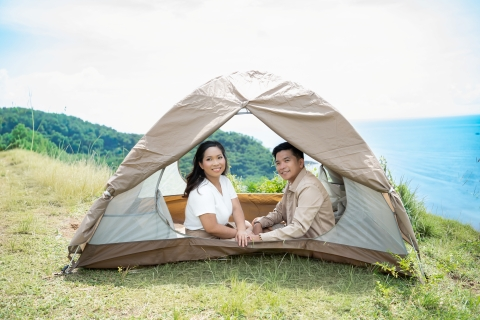
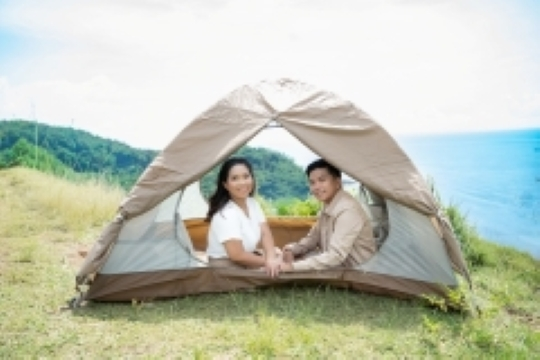
updated the order of events and the image sizes

diff --git a/index.html b/index.html
@@ -94,6 +94,7 @@
         <div class="venue-image">
           <img src="assets/images/church_updated.jpg" alt="Church photo">
         </div>
+        
         <div class="venue-details">
           <h3 class="venue-title">Ceremony</h3>
           <p class="venue-time">December 12, 2025 • 2:00 PM</p>
@@ -127,13 +128,14 @@
 </section>
 
 <!-- ========== ORDER OF EVENTS ========== -->
-<section class="section" id="timeofevents">
-      <h2 class="h1 center slide-down">Order of Events</h2>
-  <div class="story-container">
-    <div class="story-image reveal-left">
-      <img class="img-zoom" src="assets/images/cafe/invi6.jpg" alt="Couple strolling through vines" loading="lazy">
-    </div>
-  </div>
+<section id="timeofevents" class="section">
+  <div class="container">
+    <h2 class="h1 center slide-down">Order of Events</h2>
+    <div class="schedule-grid">
+      <!-- Ceremony -->
+      <div class="venue-card">
+          <img src="assets/images/cafe/invi7.jpg" alt="">
+      </div>
 </section>
 
   <!-- ========== GALLERY ========== -->
@@ -154,9 +156,9 @@
         <img class="img-zoom" src="assets/images/cafe/edited10.jpg" alt="">
         <img class="img-zoom" src="assets/images/cafe/edited11.jpg" alt="">
         <img class="img-zoom" src="assets/images/cafe/edited12.jpg" alt="">
-        <img class="img-zoom" src="assets/images/cafe/edited13.jpg" alt="">
+        <img class="img-zoom" src="assets/images/cafe/edited13a.jpg" alt="">
         <img class="img-zoom" src="assets/images/cafe/edited14.jpg" alt="">
-        <img class="img-zoom" src="assets/images/cafe/edited15.jpg" alt="">
+        <img class="img-zoom" src="assets/images/cafe/edited15a.jpg" alt="">
         <img class="img-zoom" src="assets/images/cafe/edited21.jpg" alt="">
         <img class="img-zoom" src="assets/images/cafe/edited17.jpg" alt="">
         <img class="img-zoom" src="assets/images/cafe/edited18.jpg" alt="">
@@ -180,7 +182,7 @@
       <section class="card ent parents-bride">
         <h3 class="script h-sub">Parents of the Bride</h3>
         <ul class="no-bullets tight">
-          <li><strong>Mr. Edmond Santos</strong></li>
+          <li><strong>Mr. Edmundo Santos</strong></li>
           <li><strong>Mrs. Mila Santos</strong></li>
         </ul>
       </section>
@@ -190,24 +192,9 @@
         <h3 class="script h-sub">Principal Sponsors</h3>
         <div class="cols-2">
           <ul class="no-bullets tight">
-          <li><strong>Mrs. Susana Mariano</strong></li>
-          <li><strong>Mrs. Dolores Dimaano</strong></li>
-          <li><strong>Mrs. Rosmer Sevano</strong></li>
-        <li><strong>Ms. Ananlyn Aldueza</strong></li>
-        <li><strong>Ms. Ferlyn del Mundo</strong></li>
-        <li><strong>Mrs. Edna Naynes</strong></li>
-        <li><strong>Mrs. Girlie Navarro</strong></li>
-        <li><strong>Mrs. Josefina Trasmañas</strong></li>
-        <li><strong>Mrs. Lydia Villafaña</strong></li>
-        <li><strong>Mrs. Estrella Kabuto</strong></li>
-        <li><strong>Mrs. Jocelyn Patdu</strong></li>
-        <li><strong>Mrs. Grace Botovarra</strong></li>
-         
-          </ul>
-          <ul class="no-bullets tight">
-        <li><strong>Mr. Armando Mariano</strong></li>
-<li><strong>Mr. Noel Geronimo</strong></li>
-<li><strong>Mr. Ranie del Mundo</strong></li>
+                    <li><strong>Mr. Armando Mariano</strong></li>
+        <li><strong>Mr. Noel Geronimo</strong></li>
+          <li><strong>Mr. Ranie del Mundo</strong></li>
 <li><strong>Atty. Arnel Irog</strong></li>
 <li><strong>Mr. Nelvin Rea</strong></li>
 <li><strong>Mr. Rowen Valiente</strong></li>
@@ -217,7 +204,21 @@
 <li><strong>Mr. Isami Kabuto</strong></li>
 <li><strong>Mr. Abraham Canlas</strong></li>
 <li><strong>Mr. Jane Garcia</strong></li>
-       
+        
+          </ul>
+          <ul class="no-bullets tight">
+          <li><strong>Mrs. Susana Mariano</strong></li>
+          <li><strong>Mrs. Dolores Dimaano</strong></li>
+          <li><strong>Mrs. Rosmer Sevano</strong></li>
+          <li><strong>Ms. Ananlyn Aldueza</strong></li>
+          <li><strong>Ms. Ferlyn del Mundo</strong></li>
+          <li><strong>Mrs. Edna Naynes</strong></li>
+          <li><strong>Mrs. Girlie Navarro</strong></li>
+          <li><strong>Mrs. Josefina Trasmañas</strong></li>
+          <li><strong>Mrs. Lydia Villafaña</strong></li>
+          <li><strong>Mrs. Estrella Kabuto</strong></li>
+          <li><strong>Mrs. Jocelyn Patdu</strong></li>
+          <li><strong>Mrs. Grace Botovarra</strong></li>
           </ul>
         </div>
       </section>
@@ -266,7 +267,8 @@
       <section class="card ent veil">
         <h3 class="script h-sub">Veil</h3>
         <ul class="no-bullets tight">
-          <li><strong>Mrs. Thyra Marie Cabusao</strong></li><li><strong>Neil Simon Cabusao</strong></li>
+          <li></li><li><strong>Neil Simon Cabusao</strong>
+            <strong>Mrs. Thyra Marie Cabusao</strong></li>
         </ul>
       </section>
 
@@ -283,7 +285,7 @@
         <h3 class="script h-sub">Candle</h3>
         <ul class="no-bullets tight">
           <li><strong>Mr. Russelle Franco</strong></li>
-<li><strong>Mrs. Maria Regina Denaga</strong></li>
+  <li><strong>Mrs. Maria Regina Denaga</strong></li>
         </ul>
       </section>
     </div>

diff --git a/style.css b/style.css
@@ -21,6 +21,7 @@ img{max-width:100%;height:auto;display:block}
 a{color:var(--navy);text-decoration:none}
 #entourage {
   background: var(--bg-c);
+  margin-top: 100px;
 }
 
 .container{width:min(var(--max),92vw);margin-inline:auto}
@@ -300,12 +301,56 @@ position: absolute;
     grid-template-columns: repeat(2, 1fr);
   }
 
-  /* Story section tablet adjustments */
-  .story-container {
-    flex-direction: column;
-    text-align: center;
-    padding: 30px 20px;
+/* ===== ORDER OF EVENTS ===== */
+/* ===== ORDER OF EVENTS ===== */
+#timeofevents {
+  padding: 40px 0 60px;
+  text-align: center;
+}
+
+#timeofevents h2 {
+  width: 600px;
+  margin: 0 auto 24px;
+  text-align: center;
+}
+
+/* container (same look as venue cards but smaller visual height) */
+.order-container {
+  width: 600px;
+  max-width: 600px;
+  margin: 0 auto;
+  background: #fff;
+  border-radius: 16px;
+  box-shadow: 0 4px 12px rgba(0, 0, 0, 0.05);
+  padding: 20px;
+  overflow: hidden;
+}
+
+/* smaller image that matches venue card proportions */
+#timeofevents .order-container img {
+  display: block;
+  width: 80%;               /* shrink image size to 80% of container */
+  max-width: 480px;         /* cap actual width for consistent look */
+  height: auto;
+  margin: 0 auto;
+  border-radius: 12px;
+  object-fit: contain;
+}
+
+/* Responsive */
+@media (max-width: 640px) {
+  #timeofevents h2,
+  .order-container {
+    width: 90%;
   }
+
+  #timeofevents .order-container img {
+    width: 100%;            /* use full width on small screens */
+    max-width: 100%;
+  }
+}
+
+/* ===== ORDER OF EVENTS SECTION ===== */
 
   .story-text {
     flex: none;
@@ -316,17 +361,56 @@ position: absolute;
   .story-image {
     flex: none;
     min-width: auto;
+    width: 1600px;
     margin-bottom: 1px;
+    height: 1500px;
   }
 
   .story-image img {
     max-width: 80%;
   }
 
-  /* Gallery tablet adjustments */
+ /* ===== GALLERY SECTION ===== */
+.gallery {
+  display: grid;
+  grid-template-columns: repeat(auto-fit, minmax(280px, 1fr));
+  gap: 1.5rem;
+  margin-top: 18px;
+}
+
+/* Prevent image cropping */
+.gallery img {
+  width: 100%;
+  height: auto;                /* keeps natural proportions */
+  object-fit: contain;         /* show full image */
+  object-position: center center;
+  border-radius: 12px;
+  display: block;
+  background: #fff;            /* fill background if needed */
+  box-shadow: 0 2px 6px rgba(0,0,0,0.06);
+  transition: transform 0.3s ease, box-shadow 0.3s ease;
+}
+
+/* Hover zoom (optional subtle effect) */
+.gallery img:hover {
+  transform: scale(1.03);
+  box-shadow: 0 6px 16px rgba(0,0,0,0.1);
+}
+
+/* ===== Tablet layout (3 columns) ===== */
+@media (max-width: 1024px) {
   .gallery {
     grid-template-columns: repeat(3, 1fr);
   }
+}
+
+/* ===== Mobile layout (2 columns) ===== */
+@media (max-width: 640px) {
+  .gallery {
+    grid-template-columns: repeat(2, 1fr);
+    gap: 1rem;
+  }
+}
 
   /* Schedule grid tablet adjustments */
   .schedule-grid {
@@ -860,6 +944,7 @@ details {
   border-radius: 12px;
   background: #fff;
   padding: 14px 16px;
+  margin-top: 30px;
 }
 details + details {
   margin-top: 10px;

diff --git a/reservation4.html b/reservation4.html
@@ -1,5 +1,6 @@
 
  <link href="https://fonts.googleapis.com/css2?family=Playfair+Display:wght@600&family=Great+Vibes&display=swap" rel="stylesheet">
+    <link href="https://fonts.cdnfonts.com/css/la-lexus-serif" rel="stylesheet">
   <style>
     
      .containers{
@@ -70,8 +71,8 @@
 
     /* ---------- Typography ---------- */
     h2{
-    font-family: 'Playfair Display', serif;
-      font-size:44px; line-height:1.05;
+    font-family: 'La Lexus Serif', serif;
+      font-size:40px; line-height:1.05;
       color:var(--navy);
       margin:0 0 6px;
       letter-spacing:.2px;
